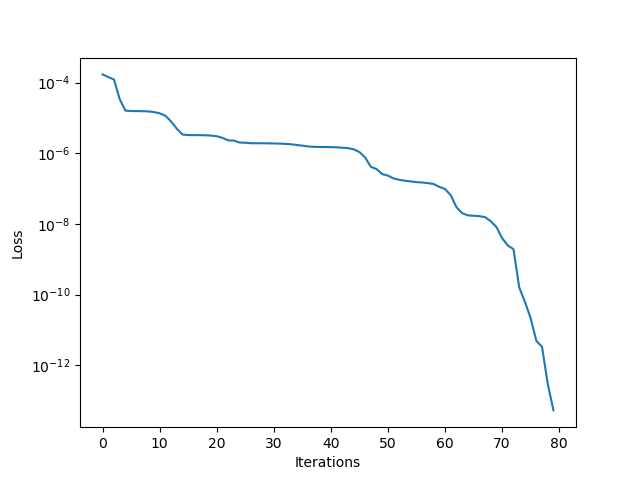
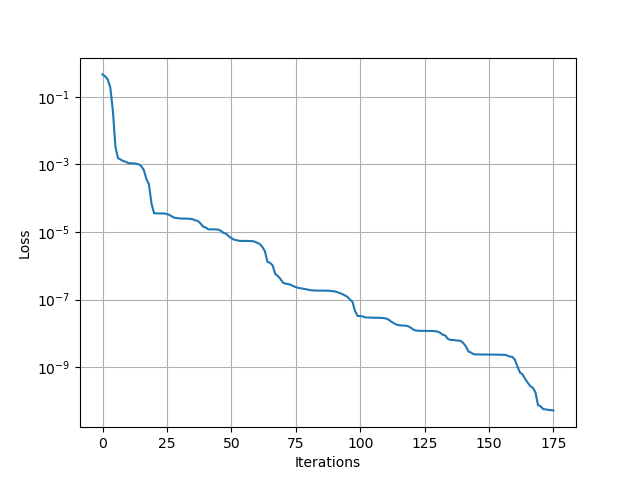
update doc

diff --git a/docs/src/inverse.md b/docs/src/inverse.md
@@ -1,18 +1,26 @@
 # Inverse Modeling for Coupled Geomechanics and Single Phase Flow
 
-We have coupled geomechanics and single phase flow in [`Coupled Geomechanics and Single Phase Flow`](@ref). Now we consider the inverse modeling: assuming that the plane stress elasticity matrix $H$ is unknown, we want to estimate $H$ based on the observation data-- the displacement and velocity on a line of sensors.
+We have coupled geomechanics and single phase flow in [`Coupled Geomechanics and Single Phase Flow`](https://kailaix.github.io/PoreFlow.jl/dev/coupled/) (poroelasticity). The governing equation for poroelasticity model is 
+
+$$\begin{aligned}
+\mathrm{div}\sigma(u) - b \nabla p &= 0\\
+\frac{1}{M} \frac{\partial p}{\partial t} + b\frac{\partial \varepsilon_v(u)}{\partial t} - \nabla\cdot\left(\frac{k}{B_f\mu}\nabla p\right) &= f(x,t)\\
+\sigma(u) = H\varepsilon(u)
+\end{aligned}$$
+
+We impose no-flow boundary condition for $p$, i.e., $\nabla p \cdot n=0$, a fixed Dirichlet boundary condition for $u$ on the bottom, and traction free boundary conditions for $u$ on all other three sides, i.e., $\sigma(u)n = 0$. We show the data in the following. 
 
 
-
-In the inverse modeling code, we need to replace for loops by `while_loop` syntax. Additionally, we need to using `Variable(H)` to mark $H$ as trainable. We run the `L-BFGS-B` algorithm and obtain the following loss function profile and estimated $H$. 
 
 | u displacement              | v displacement              | Pressure                    |
 | --------------------------- | --------------------------- | --------------------------- |
 | ![](./assets/disp_u_tf.gif) | ![](./assets/disp_v_tf.gif) | ![](./assets/disp_p_tf.gif) |
 
+We estimate the elasticity tensor $H$ by solving a minimization problem 
 
+$$\min_H \sum_{i\in\mathcal{I}} (u^{\mathrm{obs}}_i-u_i)^2$$
 
-[Code](./assets/invpi.jl)
+where $\mathcal{I}$ is the index set for horizontal displacement  on the top side, $u^{\mathrm{obs}}_i$ is the corresponding observation. 
 
 
 
@@ -20,7 +28,7 @@ In the inverse modeling code, we need to replace for loops by `while_loop` synta
 
 | Initial Guess                                                | Estimated $H$                                                | Reference $H$                                                |
 | ------------------------------------------------------------ | ------------------------------------------------------------ | ------------------------------------------------------------ |
-| $$\begin{bmatrix}1 &   0 & 0 \\ 0 & 1  & 0 \\ 0    &  0    &  1\\\end{bmatrix}$$ | $$\begin{bmatrix}1.13961  &   0.398872 &    -2.35165\times10^{-6}\\ 0.398842  &  1.13959 &     4.39933\times10^{-6}\\ 3.74498\times10^{-6} & 2.38203\times10^{-6}&   0.740731\\\end{bmatrix}$$ | $$\begin{bmatrix}1.1396 &   0.39886 & 0.0 \\ 0.39886 & 1.1396  & 0.0 \\ 0.0    &  0.0    &  0.740741\\\end{bmatrix}$$ |
+| $$\begin{bmatrix}1 &   0 & 0 \\ 0 & 1  & 0 \\ 0    &  0    &  1\\\end{bmatrix}$$ | $$\begin{bmatrix}1.13962  &    0.398865     & -9.63291\times 10^{-6}\\  0.398834   &  1.13959 &       8.32611\times 10^{-5}\\ -1.72994\times 10^{-4} & 1.67993\times 10^{-4}   & 0.740734\end{bmatrix}$$ | $$\begin{bmatrix}1.1396 &   0.39886 & 0.0 \\ 0.39886 & 1.1396  & 0.0 \\ 0.0    &  0.0    &  0.740741\\\end{bmatrix}$$ |
 
 
 
